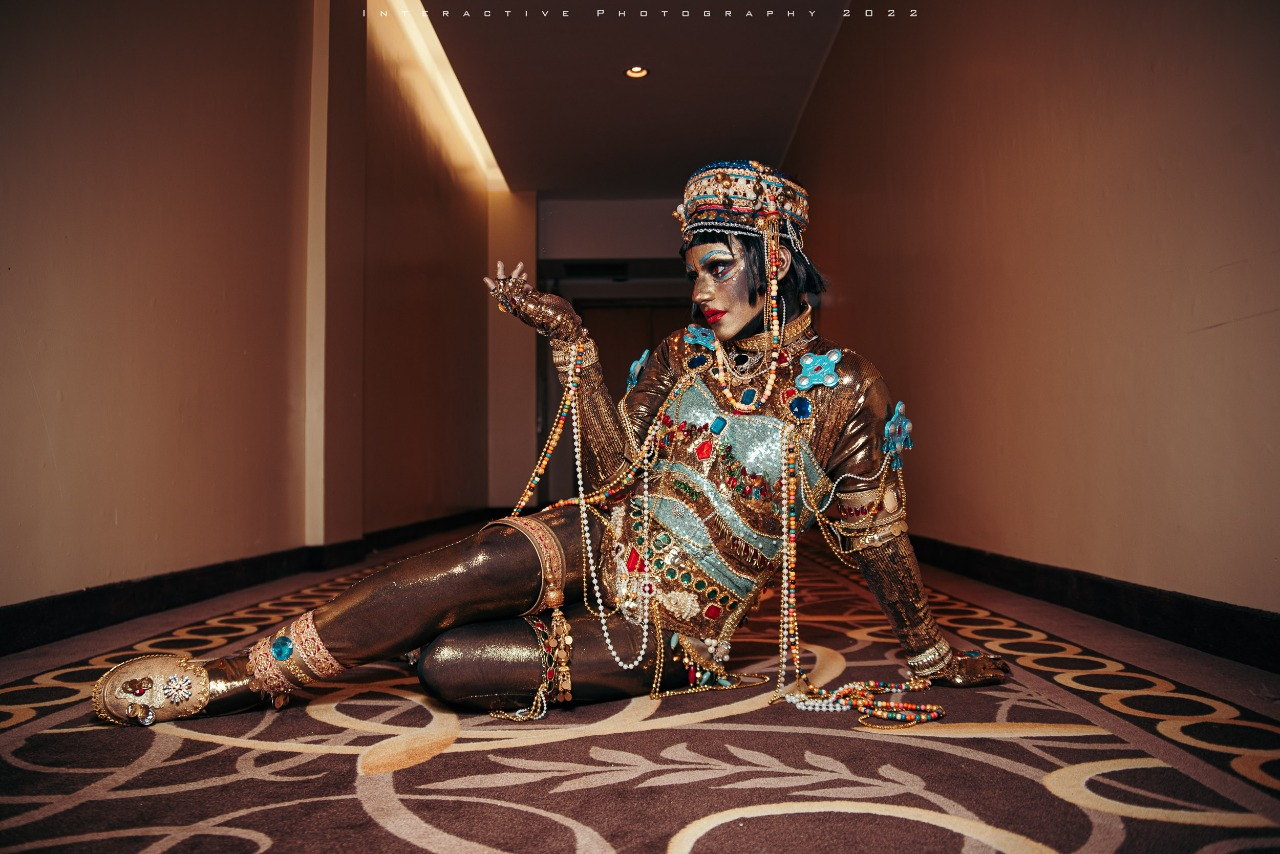
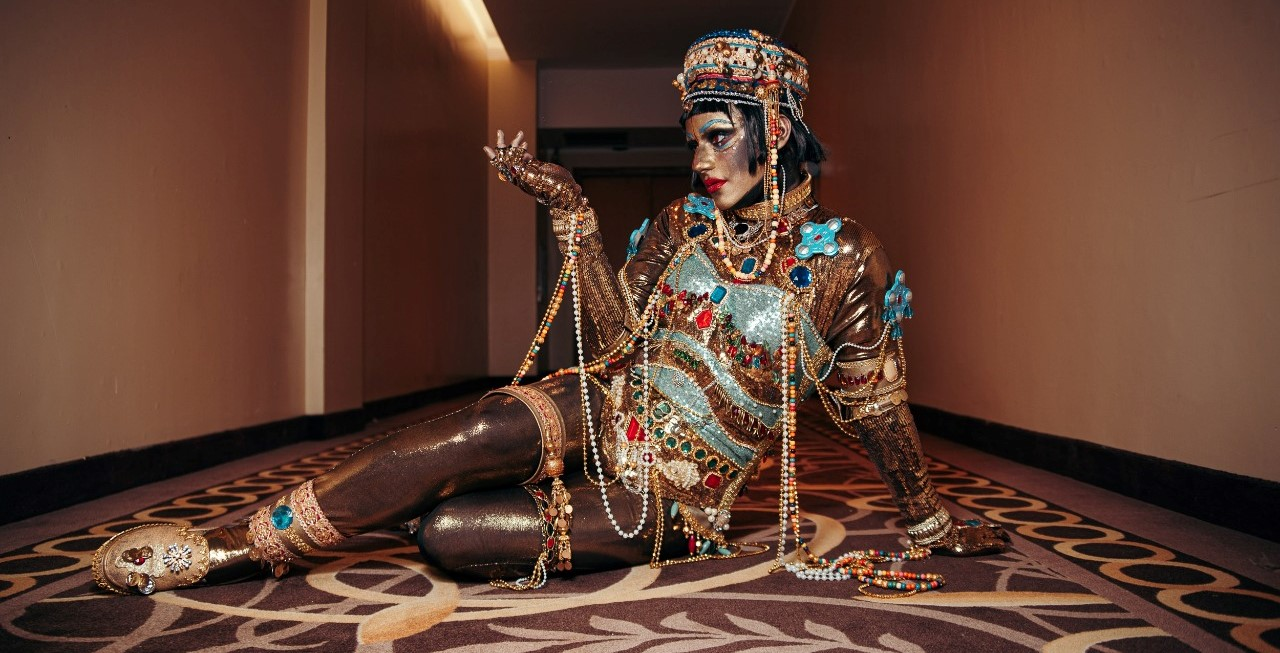
responsive

diff --git a/src/stylesheet/styles.css b/src/stylesheet/styles.css
@@ -85,12 +85,25 @@ nav div a {
         }
     }
 }
-
+/* Body---------------------------------------------------------------- */
+/* imagen principal */
 .img__main {
     width: 100%;
-    z-index: 0;
-    height: auto;
-    opacity: .5;
+    opacity: 0.5;
+   
+}
+.img__container {
+    position: relative;
+    display: flex;
+    justify-content: center;
+    align-items: center;
+}
+
+.title__name {
+    position: absolute;
+    top: 0;
+    color: black;
+    font-size: 4rem;
 }
  
 /* footer */
@@ -119,11 +132,11 @@ footer {
     align-items: center;
     width: 100%;
 }
-/* Responsive */
 .centrado {
     align-items: center;
     display: block;
 }
+/* Responsive */ 
 
 @media (min-width:576px) {
     .button__link {

diff --git a/index.html b/index.html
@@ -37,8 +37,9 @@
 </header>
 
 <body>
-    <div>
-        <img class="img__main" src="./src/img/woman-600238_1920.jpg" alt="">
+    <div class="img__container">
+        <h2 class="title__name">Frango Gigena</h2>
+        <img class="img__main" src="src/img/WhatsApp Image 2023-06-08 at 8.39.06 PM.jpeg" alt="">
     </div>
     <div>
 
